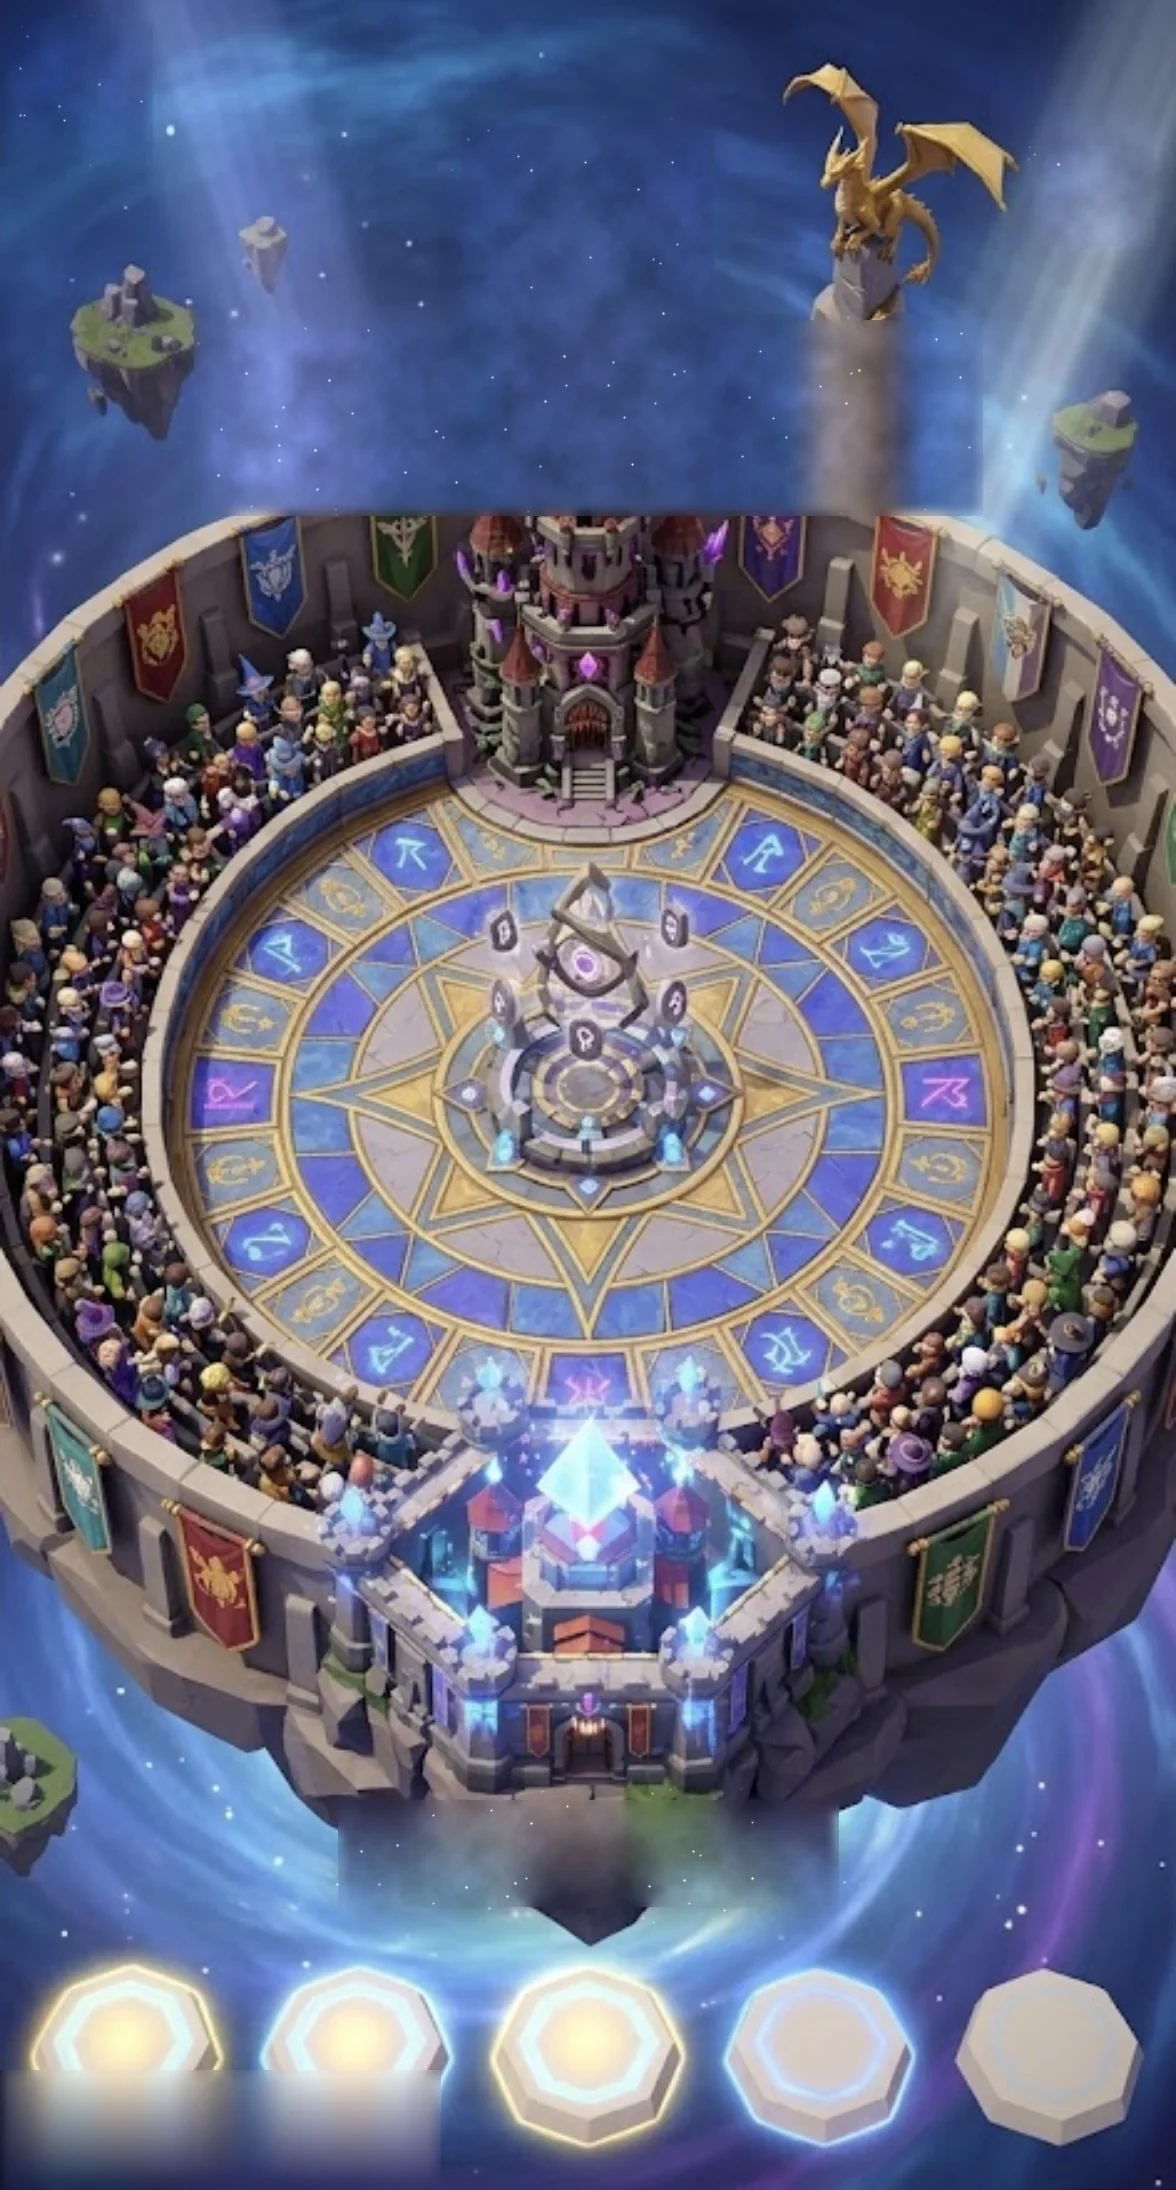
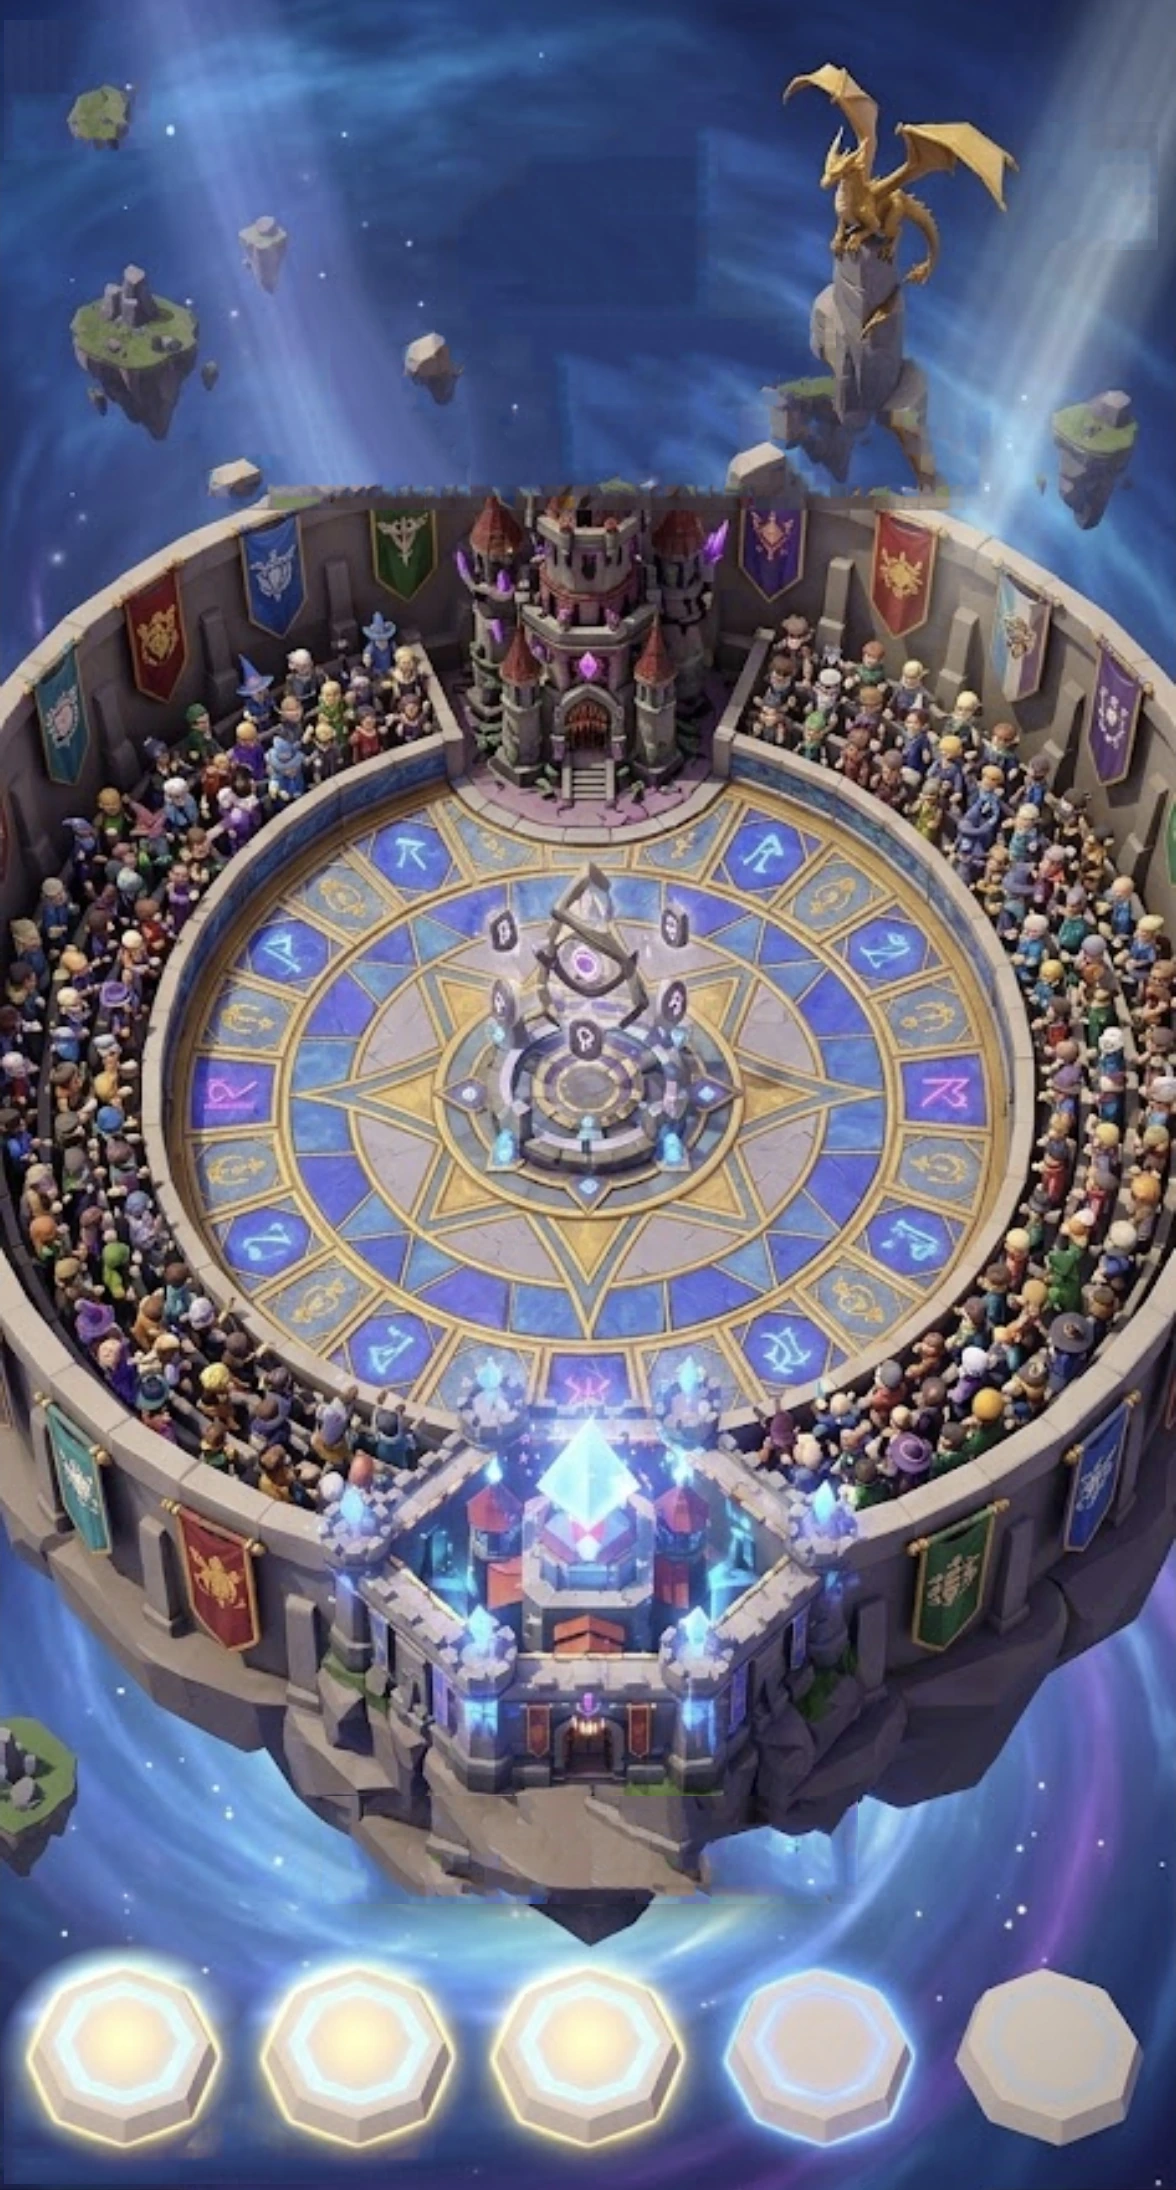
Arène : zones floues remplacées par du décor net
Claude-Session: https://claude.ai/code/session_01XbgkGbf1Lct6xSbb9P6zsv

diff --git a/index.html b/index.html
@@ -1,5 +1,5 @@
 <!doctype html>
-<html lang="fr" data-version="2026-11-14.20">
+<html lang="fr" data-version="2026-11-14.21">
 <head>
 <meta charset="utf-8">
 <meta name="viewport" content="width=device-width, initial-scale=1, maximum-scale=1, user-scalable=no, viewport-fit=cover">

diff --git a/CLAUDE.md b/CLAUDE.md
@@ -37,7 +37,7 @@ Cahier des charges du 13/11/2026 ; plan en 7 phases : `docs/ROADMAP.md` ; reste 
 - Arènes peintes (`ARENA_ART` dans `battleview.js`, 1re : `assets/arenas/aurore.webp` = image de l’utilisateur nettoyée de son interface) : l’image est dessinée sous la 3D (`buildArt`, option `under` de `createComposer`), caméra `paintedCamera` calée sur l’image (paramètres trouvés par ajustement : fov, th, D, zt, off ; profondeur ×`k` via `zk` dans `toWorld/toSim`), socles du Cercle = ceux de l’image (`benchZ`, `benchX`). Décor 3D, forteresses, socles et base du Cœur cachés. Pour une nouvelle image : relever les points (centre, bords, tours, socles), refaire l’ajustement.
 - Arène peinte vivante : shader du fond (`bgU` : public qui saute par cellules, + fort sur `artCheer`, runes/cristaux bleus qui pulsent, étoiles qui scintillent ; zones = ellipses/boîtes en pixels de l’image) + dragon 3D et poussière magique (`artUps`). Contours : épaisseur en uniform `olT` (un seul programme). `forceContextLoss` différé de 1,5 s (il bloquait les changements d’onglet).
 - Arène peinte (suite) : dans le shader, la statue de dragon bat des ailes (rotation des pixels autour des épaules L/R, pixels de l’image), respire + reflet doré ; le vide sous l’île tourbillonne (deux échantillons tournés en fondu autour de V=(588,1900), masque `islE`) + vagues d’énergie.
-- Image de l’arène : zones d’interface effacées par interpolation verticale + bruit de nébuleuse + étoiles (`/tmp` scripts inpaint/texfix, à refaire si nouvelle image). Tourbillon limité au bas (`low`), étoiles en spirale (cellules polaires en longueur d’arc) + volutes `vn()`.
+- Image de l’arène : zones d’interface effacées par interpolation verticale + bruit de nébuleuse + étoiles (remplacé le 14/11 par un « patch quilting » : chaque trou est rempli avec des petits morceaux nets de l’image voisine). Tourbillon limité au bas (`low`), étoiles en spirale (cellules polaires en longueur d’arc) + volutes `vn()`.
 - Combat : toucher un héros du Cercle (sélection, `select()`), puis toucher l'île = déploiement ; toucher un héros identique = fusion ; le glisser-déposer marche toujours.
 
 ## Concept et code
